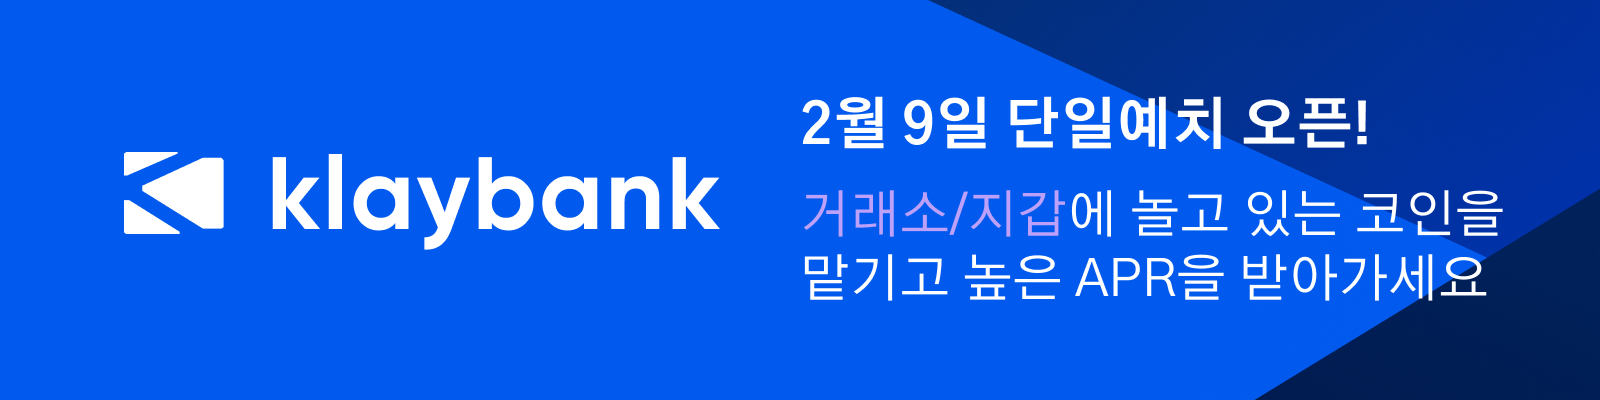
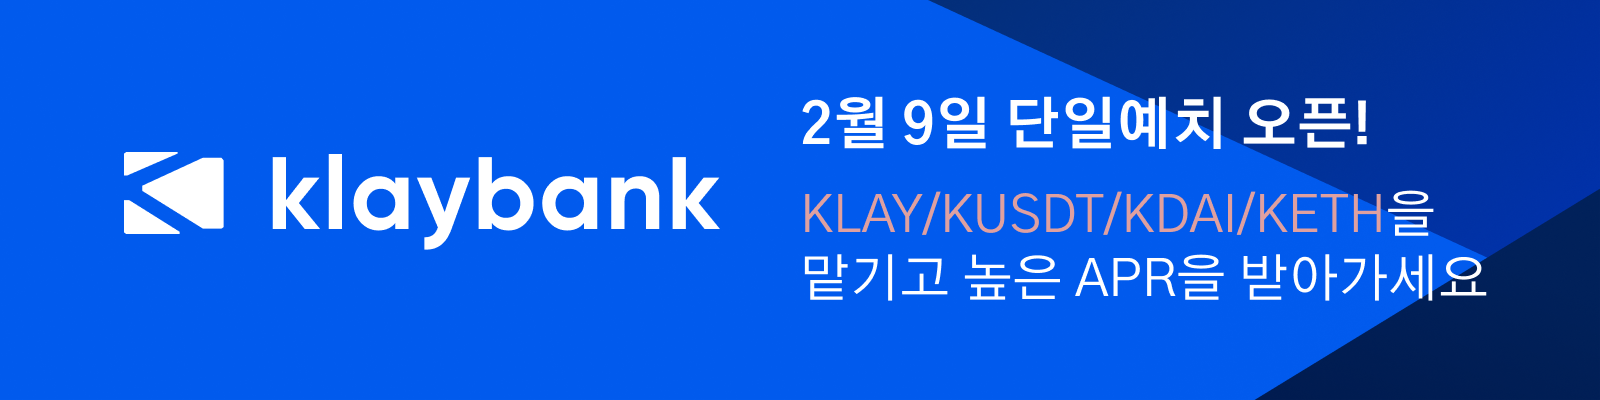
클뱅 배너변경

Changed region(s): [[0.5, 0.48, 0.9375, 0.6]]

diff --git a/frontend/src/views/app/portal.vue b/frontend/src/views/app/portal.vue
@@ -1,44 +1,16 @@
+<style scoped>
+.z_container{
+  position:relative;
+}
+.z_box{
+  position:absolute;
+  transform: translate(-50%,-50%);
+}
+
+</style>
 <template>
   <div class="main-content">
     <breadcumb :page="'Klaytn Portal'" :folder="'Portal'" />
-
-
-    <!-- <b-row>
-      <b-col lg="4" md="4" sm="12">
-        <b-card
-          class="card-icon-bg card-icon-bg-primary o-hidden mb-30 text-center"
-        >
-          <i class="i-Coin"></i>
-          <div class="content" style="max-width:120px;">
-            <p class="text-primary text-20 line-height-1.2 mb-2 font-weight-bold">KLAY</p>
-            <p class="text-muted text-15 line-height-1 mb-1">&#8361;{{klayKrwPriceExchange}}(Bithumb)</p>
-            <p class="text-muted text-15 line-height-1 mb-1">${{swapKlayPriceUsd}}(Klayswap)</p>
-          </div>
-        </b-card>
-      </b-col>
-      <b-col lg="4" md="4" sm="12">
-        <b-card
-          class="card-icon-bg card-icon-bg-primary o-hidden mb-30 text-center"
-        >
-          <i class="i-Cloud-Weather"></i>
-          <div class="content" style="max-width:120px;">
-            <p class="text-primary text-20 line-height-1.5 mb-2 font-weight-bold">K-Premium</p>
-            <p class="text-muted text-22 line-height-1.1 mb-2">{{(kPremium*100).toFixed(2)}}%</p>
-          </div>
-        </b-card>
-      </b-col>
-      <b-col lg="4" md="4" sm="12">
-        <b-card
-          class="card-icon-bg card-icon-bg-primary o-hidden mb-30 text-center"
-        >
-          <i class="i-Dollar"></i>
-          <div class="content" style="max-width:120px;">
-            <p class="text-primary text-20 line-height-1.5 mb-2 font-weight-bold">환율(USD)</p>
-            <p class="text-muted text-22 line-height-1.1 mb-2">&#8361;{{usdKrw}}</p>
-          </div>
-        </b-card>
-      </b-col>
-    </b-row> -->
 <b-row class="">
  <b-col lg="6" xl="6" class=" mb-30">
         <b-card>
@@ -68,13 +40,14 @@
    </b-col>
    <!-- Banner -->
  <b-col lg="3" xl="3" class=" mb-30">
-                            <span class="ul-widget2__username">
-                    Ad
-                  </span>
-          <a href="https://klaybank.org/" target="_blank" class="ul-widget2__title"><img src="@/assets/images/banner/banner_klaybank.png"/></a>
+      <span class="ul-widget2__username">
+        ad
+      </span>
+            <div class="ul-widget1">
+                <a href="https://klaybank.org/" target="_blank" class="ul-widget2__title"><img src="@/assets/images/banner/banner_klaybank.png" style="max-width:auto; height:110px;"/></a>
+        </div>
    </b-col>
 </b-row>
-
     <b-row class="">
       <!-- authors-profit -->
       <b-col lg="3" xl="3" class=" mb-30">
@@ -1335,7 +1308,7 @@
                 </div>
                 <div class="ul-widget2__info ul-widget4__users-info">
                   <a href="https://neverland.finance/" target="_blank" class="ul-widget2__title">
-                    Neverland 
+                    Neverland  <b-badge pill variant="success m-2">whitelisting ~1/23</b-badge>
                   </a>
                   <span class="ul-widget2__username">
                   </span>
